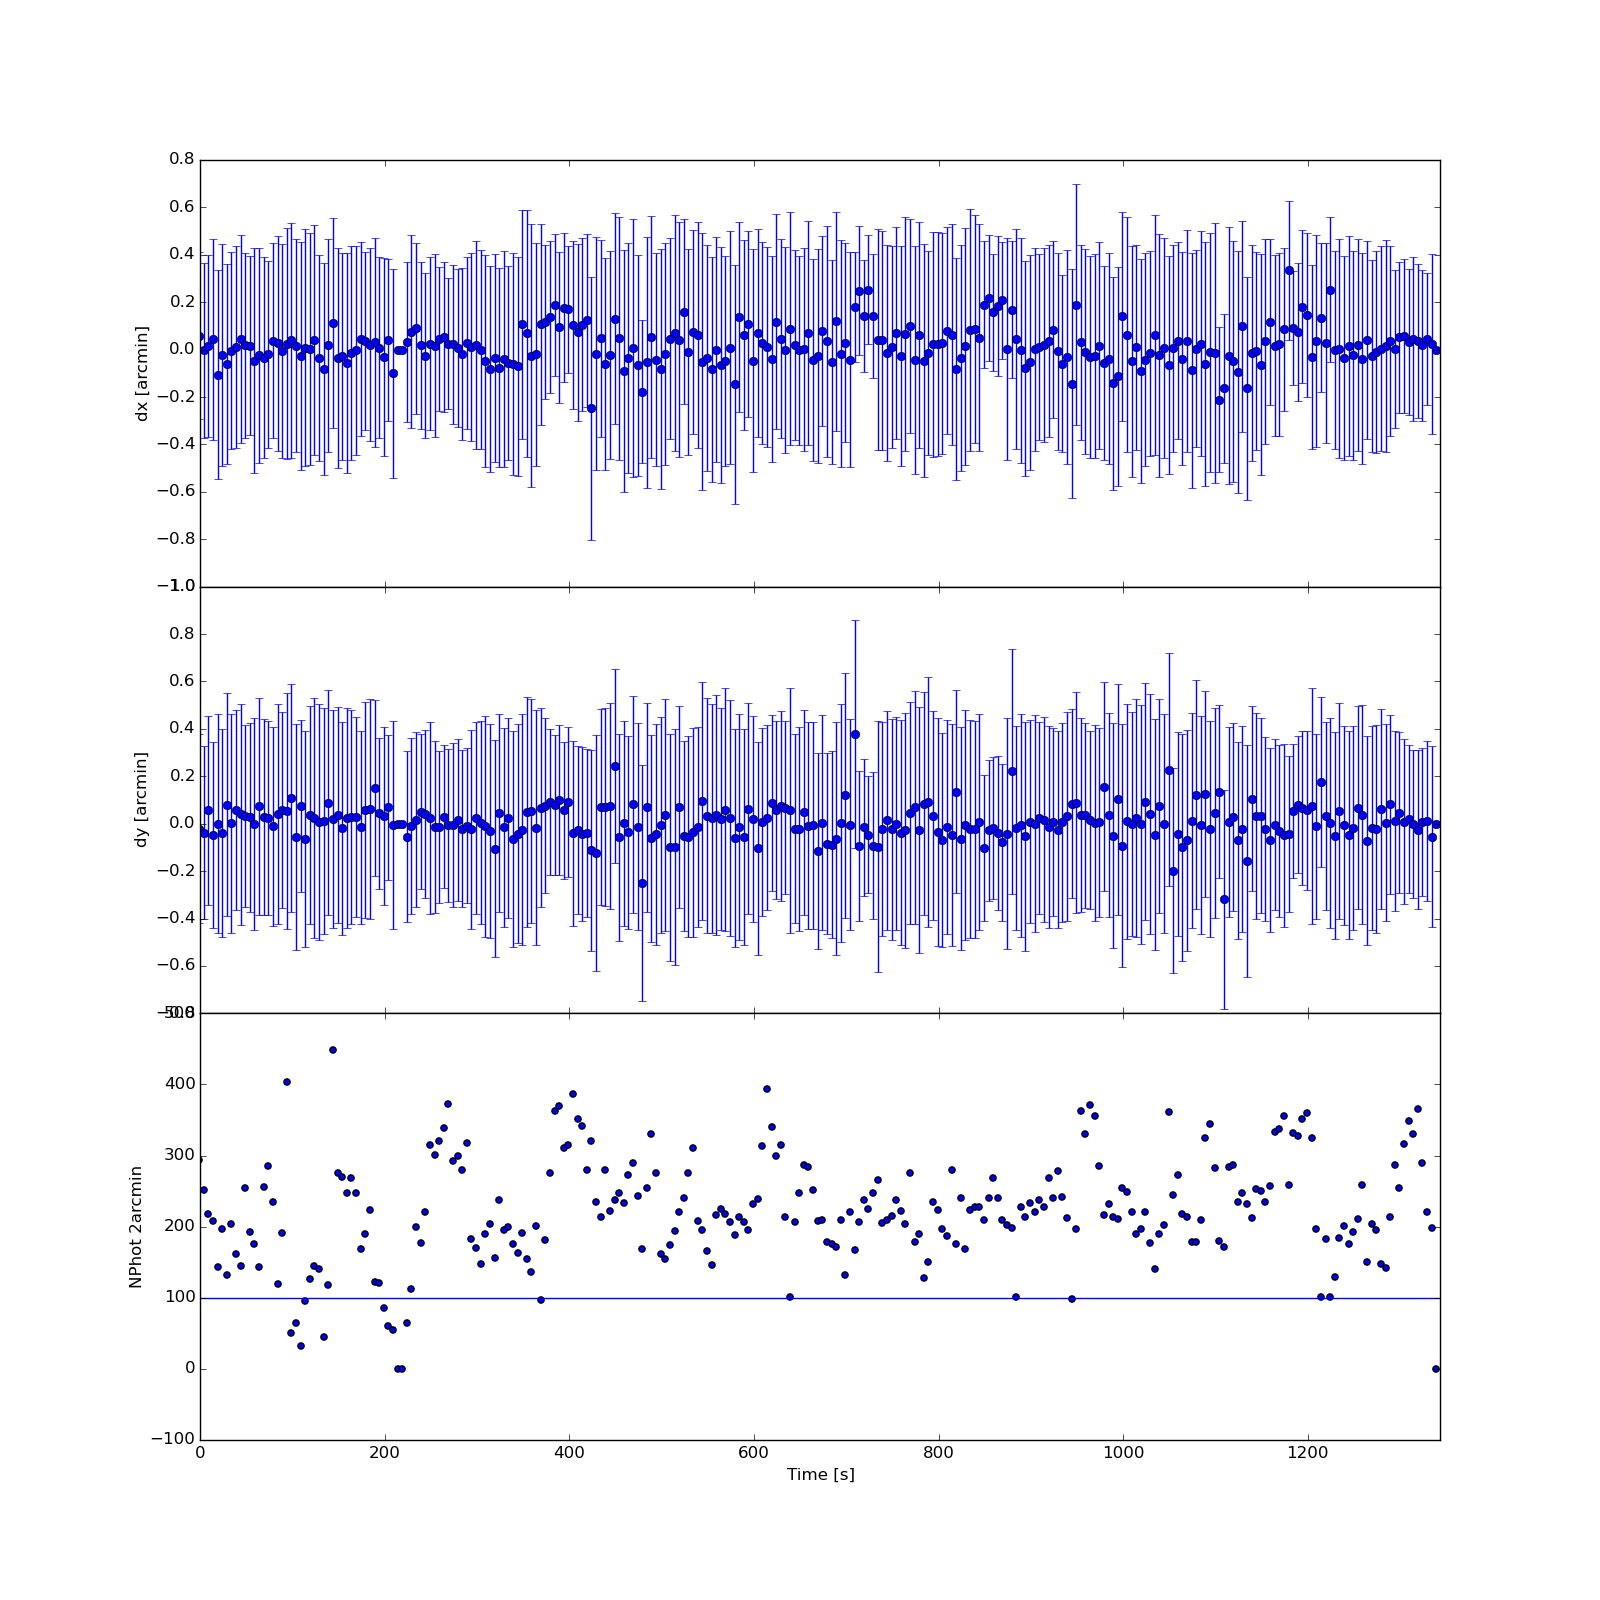
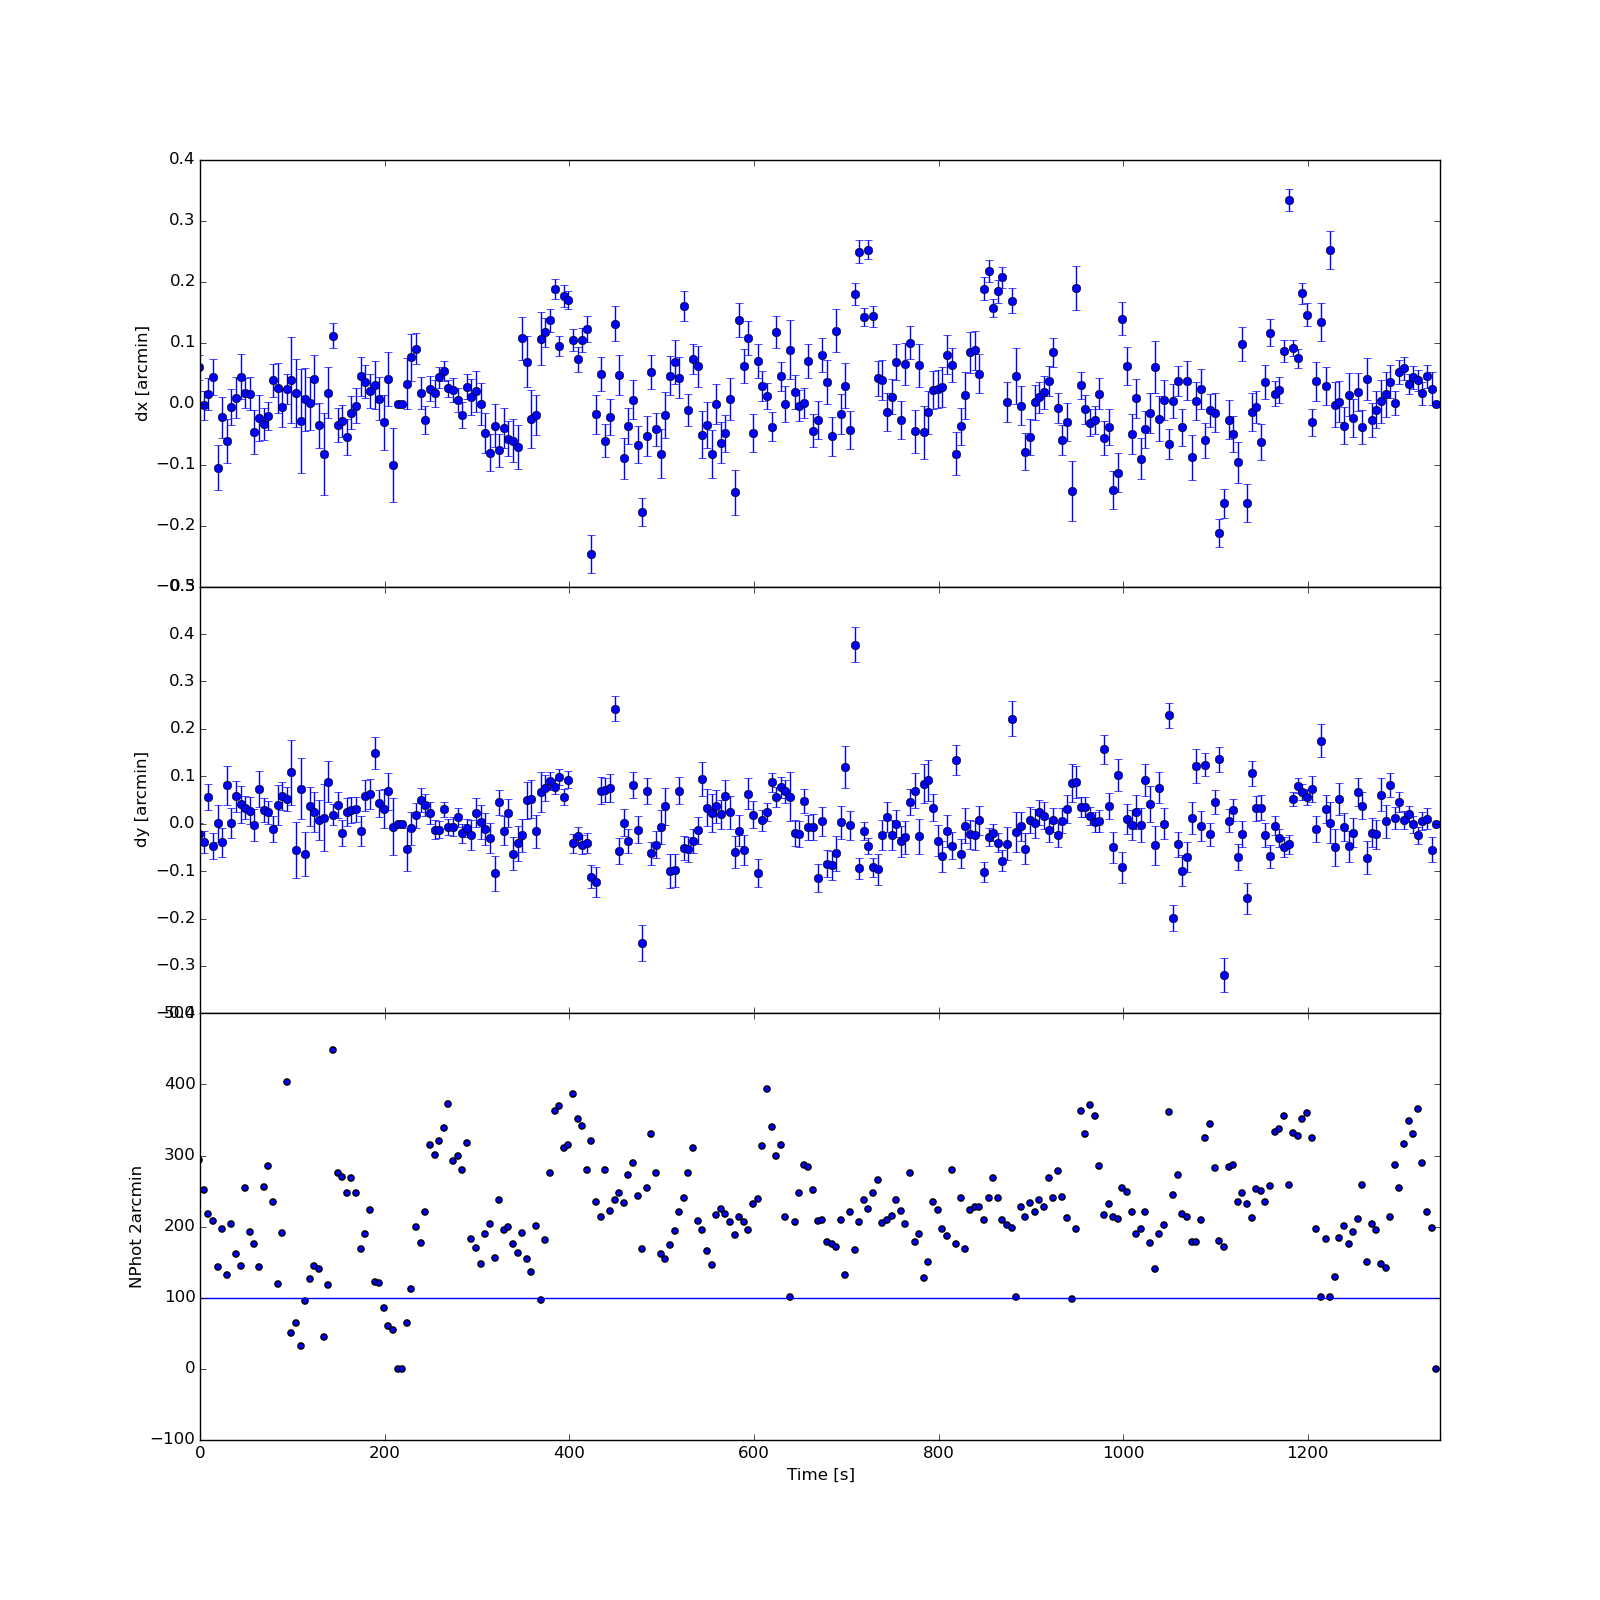
Added sqrt(n) to stdev calc

Changed region(s): [[0.0938, 0.125, 0.9062, 0.3438], [0.125, 0.4375, 0.9062, 0.5938]]

diff --git a/pipeline/sourcefinder.py b/pipeline/sourcefinder.py
@@ -139,14 +139,14 @@ while (tstep < timestep[timesteplimit]) and (tstep != 1340.):
 
 		totdx.append(np.mean(sumdx))
 		totdy.append(np.mean(sumdy))
-		stdsumdx.append(np.std(sumdx))
-		stdsumdy.append(np.std(sumdy))
+		stdsumdx.append(np.std(sumdx)/np.sqrt(len(sumdx)))
+		stdsumdy.append(np.std(sumdy)/np.sqrt(len(sumdy)))
 		totphot2.append(len(sumdx))
 
 		##############################################################
 		# Make plots
 		##############################################################
-		plot_hist = 1.
+		plot_hist = 0.
 		if plot_hist == 1:
 			fig = plt.figure(figsize=(8,8))
 			plt.hist(sumdx,bins=50)
